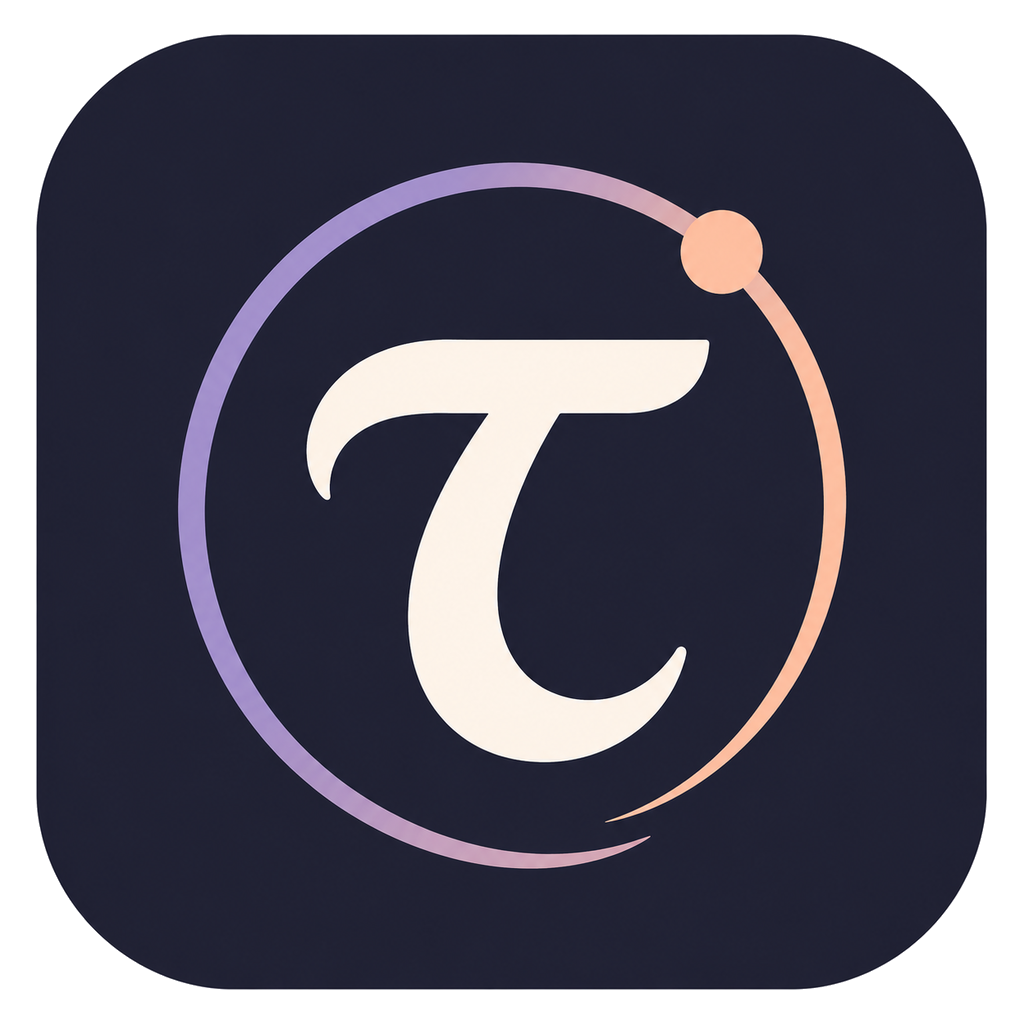
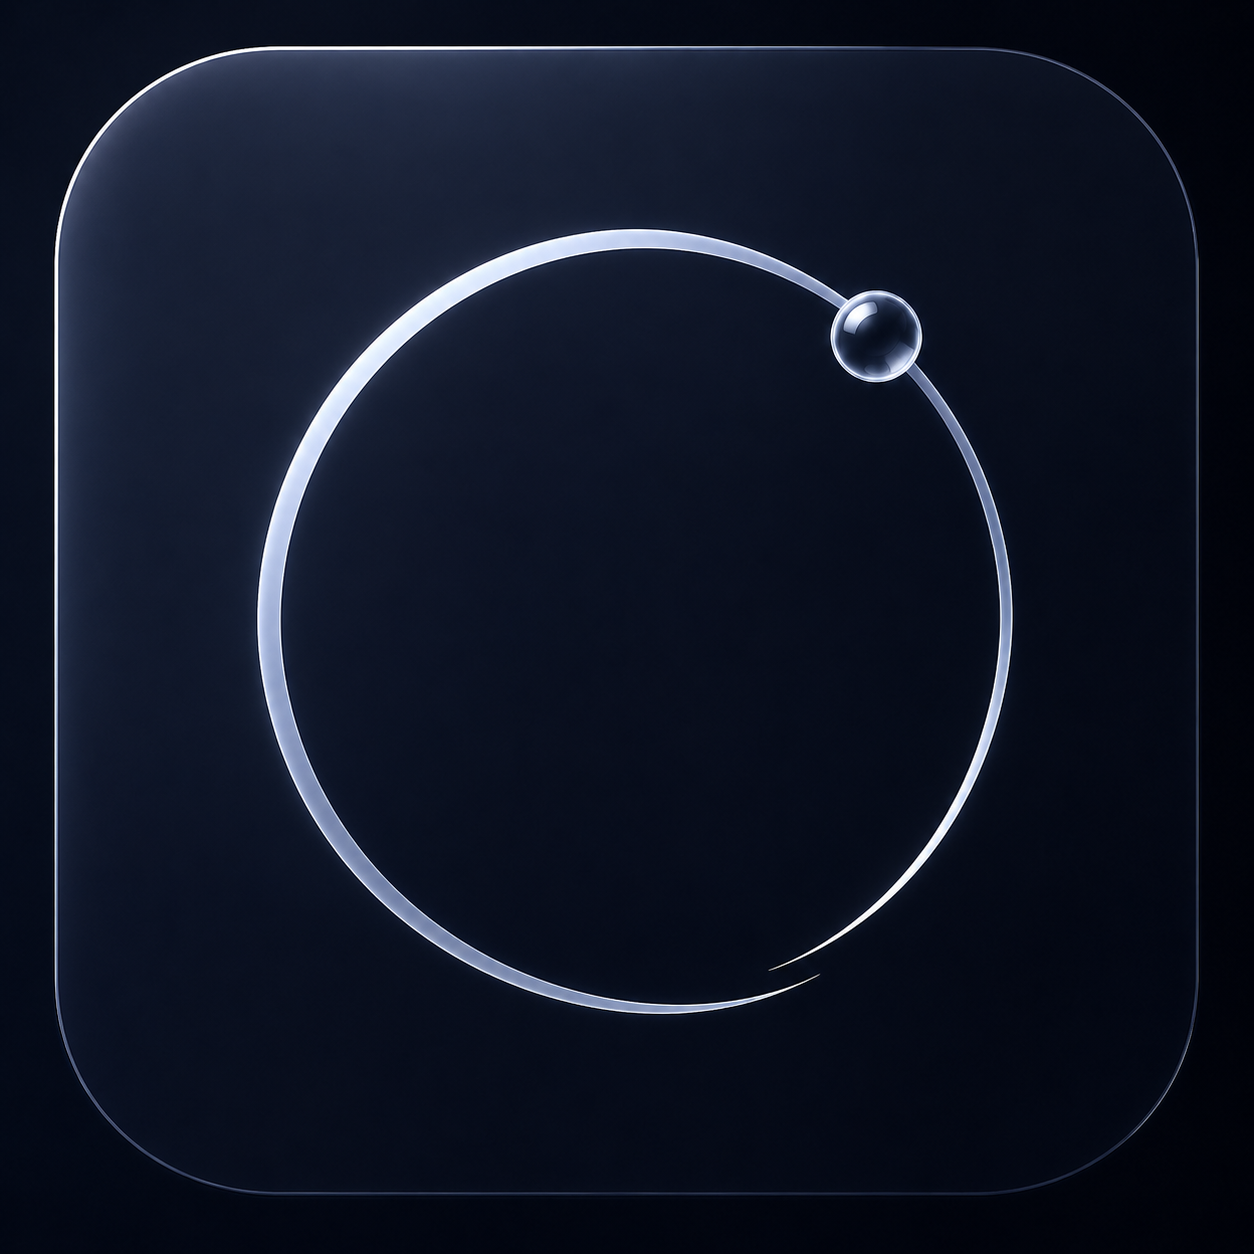
fix(renderer): polish desktop chrome

diff --git a/apps/desktop/src/renderer/styles.css b/apps/desktop/src/renderer/styles.css
@@ -16,11 +16,12 @@ body {
   --tau-sidebar-button-active: rgb(255 255 255 / 12%);
   --tau-sidebar-button-border: rgb(255 255 255 / 8%);
   --tau-sidebar-button-shadow: inset 0 1px 0 rgb(255 255 255 / 6%), 0 8px 18px rgb(0 0 0 / 10%);
+  --tau-terminal-background: #151515;
 
   width: 100%;
   height: 100%;
   overflow: hidden;
-  background: transparent;
+  background: var(--tau-terminal-background);
   color: #c9c7cd;
   font-family:
     Inter,
@@ -40,8 +41,8 @@ body {
   width: 100%;
   height: 100%;
   --tau-titlebar-height: 36px;
+  --tau-titlebar-control-offset-y: 3px;
   --tau-titlebar-control-spacer: 92px;
-  --tau-terminal-background: #151515;
   --tau-sidebar-width: 0px;
 }
 
@@ -50,7 +51,7 @@ body {
   display: flex;
   width: 100%;
   height: 100%;
-  background: transparent;
+  background: var(--tau-terminal-background);
   overflow: hidden;
 }
 
@@ -893,6 +894,7 @@ body {
   align-items: center;
   margin-left: auto;
   gap: 4px;
+  transform: translateY(var(--tau-titlebar-control-offset-y));
   -webkit-app-region: no-drag;
 }
 
@@ -987,23 +989,25 @@ body {
   max-height: min(520px, calc(100vh - 70px));
   overflow: auto;
   padding: 12px;
-  border: 1px solid #38383d;
+  border: 1px solid rgb(255 255 255 / 10%);
   border-radius: 8px;
-  background: rgb(25 25 28 / 96%);
-  box-shadow: 0 16px 40px rgb(0 0 0 / 42%);
+  background: rgb(21 21 21 / 96%);
+  box-shadow:
+    0 18px 48px rgb(0 0 0 / 46%),
+    inset 0 1px 0 rgb(255 255 255 / 6%);
   color: #cac9dd;
 }
 
 .daemon-recovery-panel-info {
-  border-color: #395061;
+  border-color: rgb(127 182 205 / 30%);
 }
 
 .daemon-recovery-panel-warning {
-  border-color: #5f4a36;
+  border-color: rgb(214 160 100 / 32%);
 }
 
 .daemon-recovery-panel-error {
-  border-color: #6a3d3a;
+  border-color: rgb(225 120 105 / 34%);
 }
 
 .daemon-recovery-panel-header {
@@ -1031,7 +1035,7 @@ body {
   grid-column: 1 / -1;
   margin-top: 4px;
   padding-top: 8px;
-  border-top: 1px solid rgb(255 255 255 / 8%);
+  border-top: 1px solid rgb(255 255 255 / 7%);
   color: #e0dfee;
   font-size: 11px;
   font-weight: 800;
@@ -1363,7 +1367,9 @@ body {
   align-items: flex-start;
   justify-content: center;
   padding-top: min(22vh, 220px);
-  background: rgb(0 0 0 / 28%);
+  background: rgb(0 0 0 / 18%);
+  -webkit-backdrop-filter: blur(3px);
+  backdrop-filter: blur(3px);
 }
 
 .search-dialog {
@@ -1375,10 +1381,15 @@ body {
   flex-direction: column;
   margin: 0;
   overflow: hidden;
-  border: 1px solid #303035;
-  border-radius: 20px;
-  background: #202022;
-  box-shadow: 0 24px 80px rgb(0 0 0 / 42%);
+  border: 1px solid rgb(255 255 255 / 14%);
+  border-radius: 16px;
+  background:
+    linear-gradient(180deg, rgb(255 255 255 / 10%), rgb(255 255 255 / 4%)), rgb(28 28 28 / 78%);
+  -webkit-backdrop-filter: blur(22px) saturate(150%) brightness(1.04);
+  backdrop-filter: blur(22px) saturate(150%) brightness(1.04);
+  box-shadow:
+    0 28px 90px rgb(0 0 0 / 54%),
+    inset 0 1px 0 rgb(255 255 255 / 12%);
   color: #c9c7cd;
 }
 
@@ -1389,6 +1400,7 @@ body {
   align-items: center;
   gap: 12px;
   padding: 0 20px;
+  border-bottom: 1px solid rgb(255 255 255 / 8%);
   color: #8c8c94;
 }
 
@@ -1444,7 +1456,8 @@ body {
 
 .search-dialog-row:hover,
 .search-dialog-row:focus-visible {
-  background: #2b2b2d;
+  background: rgb(255 255 255 / 9%);
+  box-shadow: inset 0 1px 0 rgb(255 255 255 / 5%);
   outline: none;
 }
 
@@ -1476,7 +1489,8 @@ body {
   align-items: center;
   justify-content: center;
   border-radius: 999px;
-  background: #333337;
+  border: 1px solid rgb(255 255 255 / 8%);
+  background: rgb(255 255 255 / 8%);
   color: #b8b7c0;
   font-size: 15px;
   font-weight: 600;
@@ -1953,6 +1967,7 @@ body {
   align-items: center;
   gap: 4px;
   padding-right: 12px;
+  transform: translateY(var(--tau-titlebar-control-offset-y));
   -webkit-app-region: no-drag;
 }
 
@@ -2102,7 +2117,7 @@ body {
   flex: 1 1 auto;
   position: relative;
   padding: 0;
-  background: #111111;
+  background: var(--tau-terminal-background);
 }
 
 .pane-grid-layer {
@@ -2121,7 +2136,7 @@ body {
   position: absolute;
   inset: 0;
   padding: 0;
-  background: #111111;
+  background: var(--tau-terminal-background);
 }
 
 .pane-mosaic-shell {
@@ -2187,7 +2202,7 @@ body {
   padding: 0;
   border: 0;
   border-radius: 0;
-  background: #111111;
+  background: var(--tau-terminal-background);
   outline: none;
 }
 
@@ -2225,7 +2240,7 @@ body {
 
 .pane-status-archived {
   border-color: #e6b99d;
-  background: #111111;
+  background: var(--tau-terminal-background);
   box-shadow:
     inset 0 0 0 2px #e6b99d,
     0 0 0 4px rgb(230 185 157 / 14%);
@@ -2275,7 +2290,7 @@ body {
 }
 
 .pane-tile-missing {
-  background: #18181a;
+  background: var(--tau-terminal-background);
 }
 
 .pane-standby,
@@ -2538,10 +2553,15 @@ body {
   gap: 5px;
   max-width: calc(100% - 24px);
   padding: 5px 6px;
-  border: 1px solid rgb(172 161 207 / 34%);
+  border: 1px solid rgb(255 255 255 / 12%);
   border-radius: 7px;
-  background: rgb(21 21 21 / 96%);
-  box-shadow: 0 10px 24px rgb(0 0 0 / 24%);
+  background:
+    linear-gradient(180deg, rgb(255 255 255 / 8%), rgb(255 255 255 / 3%)), rgb(21 21 21 / 82%);
+  -webkit-backdrop-filter: blur(16px) saturate(145%);
+  backdrop-filter: blur(16px) saturate(145%);
+  box-shadow:
+    0 14px 32px rgb(0 0 0 / 34%),
+    inset 0 1px 0 rgb(255 255 255 / 9%);
   color: #c9c7cd;
 }
 
@@ -2595,13 +2615,13 @@ body {
 }
 
 .terminal-search-panel button:hover {
-  background: rgb(172 161 207 / 14%);
+  background: rgb(255 255 255 / 10%);
   color: #ffffff;
 }
 
 .terminal-search-panel button:focus,
 .terminal-search-panel button:focus-visible {
-  background: rgb(172 161 207 / 14%);
+  background: rgb(255 255 255 / 10%);
   color: #ffffff;
   outline: 1px solid rgb(172 161 207 / 70%);
   outline-offset: 1px;

diff --git a/apps/desktop/src/main/index.ts b/apps/desktop/src/main/index.ts
@@ -150,8 +150,8 @@ function appIconFileName(): string {
 function resolveAppIconPath(): string | null {
   const fileName = appIconFileName()
   const candidates = [
-    join(__dirname, '../renderer/nightly', fileName),
     resolve(process.cwd(), 'assets/nightly', fileName),
+    join(__dirname, '../renderer/nightly', fileName),
   ]
 
   return candidates.find((candidate) => existsSync(candidate)) ?? null
@@ -186,21 +186,14 @@ function createWindow(): BrowserWindowInstance {
     height: 600,
     minWidth: 400,
     minHeight: 300,
-    backgroundColor: process.platform === 'darwin' ? '#00000000' : '#151515',
-    ...(process.platform === 'darwin'
-      ? {
-          transparent: true,
-          vibrancy: 'under-window' as const,
-          visualEffectState: 'active' as const,
-        }
-      : {}),
+    backgroundColor: '#151515',
     title: 'Tau',
     ...(appIcon ? { icon: appIcon } : {}),
     show: false, // Show only when terminal is ready
     // Accept first mouse click immediately (no click-through delay)
     acceptFirstMouse: true,
     // macOS: use built-in titlebar for smooth integration
-    titleBarStyle: 'hiddenInset',
+    titleBarStyle: 'hidden',
     trafficLightPosition: { x: 18, y: 14 },
 
     webPreferences: {